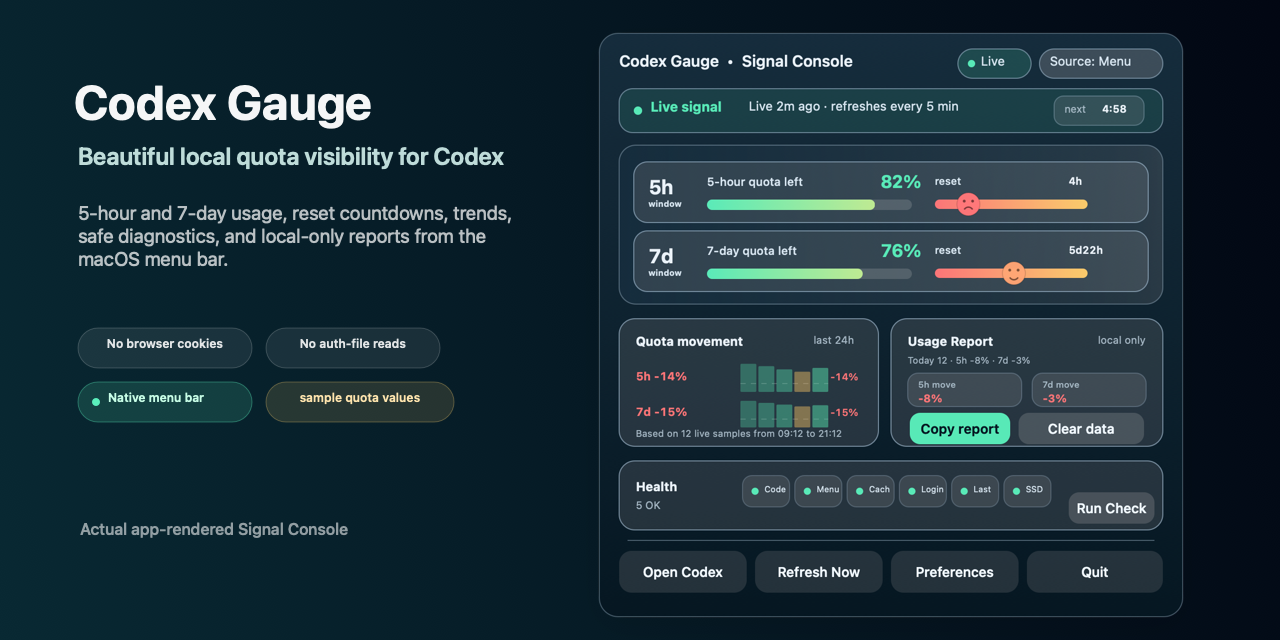
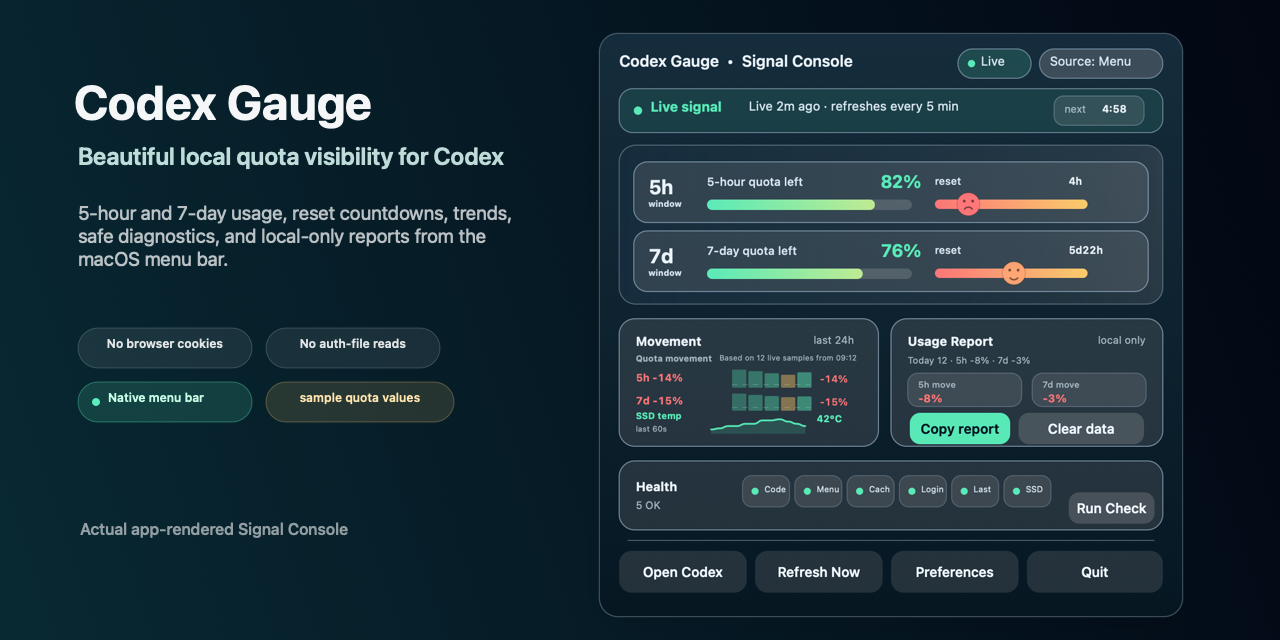
feat: show SSD temperature movement

Changed region(s): [[0.5, 0.5312, 0.6875, 0.6875]]

diff --git a/native/CodexGauge.swift b/native/CodexGauge.swift
@@ -42,6 +42,11 @@ private struct TemperatureSample: Codable {
     let ok: Bool
 }
 
+private func temperatureHistorySummaryText(_ samples: [TemperatureSample]) -> String {
+    let valid = samples.filter { $0.ok && $0.temperatureC != nil }
+    return valid.count >= 2 ? "last 60s" : "SSD temp unavailable"
+}
+
 private struct DoctorCheck {
     let title: String
     let state: String
@@ -454,6 +459,9 @@ private struct SignalConsoleModel {
     let fiveHourTrendText: String
     let sevenDayTrendText: String
     let trendContextText: String
+    let temperatureHistory: [TemperatureSample]
+    let currentTemperatureText: String
+    let temperatureHistoryText: String
     let reportFiveHourMovement: String
     let reportSevenDayMovement: String
     let reportTodaySummary: String
@@ -684,21 +692,25 @@ private final class SignalConsolePanelView: NSView {
         let layout = SignalConsoleLayout(bounds: bounds)
         let card = layout.trendCardRect
         drawRoundedRect(card, radius: 15, fill: panelSoftBackground, stroke: panelBorder.withAlphaComponent(0.50))
-        drawText("Quota movement", x: card.minX + 16, y: card.minY + 14, width: 126, height: 18, size: 12, weight: .bold, color: textPrimary)
+        drawText("Movement", x: card.minX + 16, y: card.minY + 14, width: 86, height: 18, size: 12, weight: .bold, color: textPrimary)
         drawText("last 24h", x: card.maxX - 62, y: card.minY + 14, width: 46, height: 18, size: 10, weight: .regular, color: textMuted)
-        drawTrendRow(label: "5h", text: model.fiveHourTrendText, values: model.fiveHourHistory, y: 324)
-        drawTrendRow(label: "7d", text: model.sevenDayTrendText, values: model.sevenDayHistory, y: 358)
+        drawText("Quota movement", x: card.minX + 16, y: card.minY + 33, width: 78, height: 12, size: 8.2, weight: .bold, color: textMuted)
         drawTrendContext()
+        drawTrendRow(label: "5h", text: model.fiveHourTrendText, values: model.fiveHourHistory, y: 326)
+        drawTrendRow(label: "7d", text: model.sevenDayTrendText, values: model.sevenDayHistory, y: 348)
+        drawTemperatureMovementRow(in: card)
     }
 
     private func drawTrendContext() {
-        drawText(model.trendContextText, x: 36, y: 378, width: 212, height: 14, size: 9, weight: .regular, color: textMuted)
+        let layout = SignalConsoleLayout(bounds: bounds)
+        let card = layout.trendCardRect
+        drawText(model.trendContextText, x: card.minX + 96, y: card.minY + 33, width: card.width - 112, height: 12, size: 7.2, weight: .regular, color: textMuted)
     }
 
     private func drawTrendRow(label: String, text: String, values: [Int], y: CGFloat) {
         let signalText = "\(label) \(trendSignalText(values: values, fallback: text))"
-        drawText(signalText, x: 36, y: y - 2, width: 96, height: 18, size: 11, weight: .bold, color: trendSignalColor(values: values), mono: true)
-        drawTrendSparkline(values: values, rect: NSRect(x: 136, y: y - 8, width: 84, height: 28))
+        drawText(signalText, x: 36, y: y - 2, width: 86, height: 16, size: 10, weight: .bold, color: trendSignalColor(values: values), mono: true)
+        drawTrendSparkline(values: values, rect: NSRect(x: 128, y: y - 4, width: 76, height: 18))
         drawTrendDeltaText(values: values, y: y)
     }
 
@@ -706,7 +718,7 @@ private final class SignalConsolePanelView: NSView {
         let text = trendDeltaText(values)
         drawText(
             text,
-            x: 222,
+            x: 212,
             y: y,
             width: 42,
             height: 16,
@@ -715,6 +727,107 @@ private final class SignalConsolePanelView: NSView {
             color: trendDeltaTextColor(values: values),
             mono: true
         )
+    }
+
+    private func drawTemperatureMovementRow(in card: NSRect) {
+        let row = NSRect(x: card.minX + 16, y: card.maxY - 35, width: card.width - 32, height: 25)
+        let curveRect = NSRect(x: row.minX + 72, y: row.minY + 4, width: 90, height: 19)
+        let color = temperatureCurveColor(samples: model.temperatureHistory)
+        drawText("SSD temp", x: row.minX, y: row.minY + 1, width: 58, height: 12, size: 8.6, weight: .bold, color: color)
+        drawText(model.temperatureHistoryText, x: row.minX, y: row.minY + 14, width: 70, height: 10, size: 7.5, weight: .regular, color: textMuted)
+        drawText(model.currentTemperatureText, x: row.maxX - 43, y: row.minY + 3, width: 43, height: 14, size: 9.2, weight: .bold, color: color, mono: true)
+        if model.temperatureHistoryText == "SSD temp unavailable" {
+            drawTemperatureUnavailableCurve(rect: curveRect)
+        } else {
+            drawTemperatureCurve(samples: model.temperatureHistory, rect: curveRect)
+        }
+    }
+
+    private func drawTemperatureCurve(samples: [TemperatureSample], rect: NSRect) {
+        let points = smoothedTemperaturePoints(samples: samples, rect: rect)
+        guard points.count >= 2 else {
+            drawTemperatureUnavailableCurve(rect: rect)
+            return
+        }
+        let color = temperatureCurveColor(samples: samples)
+        let line = NSBezierPath()
+        line.move(to: points[0])
+        for index in 1..<points.count {
+            let previous = points[index - 1]
+            let point = points[index]
+            let controlX = (previous.x + point.x) / 2
+            line.curve(
+                to: point,
+                controlPoint1: NSPoint(x: controlX, y: previous.y),
+                controlPoint2: NSPoint(x: controlX, y: point.y)
+            )
+        }
+        let fill = line.copy() as! NSBezierPath
+        fill.line(to: NSPoint(x: points.last?.x ?? rect.maxX, y: rect.maxY))
+        fill.line(to: NSPoint(x: points.first?.x ?? rect.minX, y: rect.maxY))
+        fill.close()
+        color.withAlphaComponent(0.12).setFill()
+        fill.fill()
+        line.lineWidth = 1.7
+        line.lineJoinStyle = .round
+        line.lineCapStyle = .round
+        color.withAlphaComponent(0.92).setStroke()
+        line.stroke()
+    }
+
+    private func drawTemperatureUnavailableCurve(rect: NSRect) {
+        let baseline = NSBezierPath()
+        baseline.move(to: NSPoint(x: rect.minX, y: rect.midY))
+        baseline.curve(
+            to: NSPoint(x: rect.maxX, y: rect.midY),
+            controlPoint1: NSPoint(x: rect.minX + rect.width * 0.33, y: rect.midY - 2),
+            controlPoint2: NSPoint(x: rect.minX + rect.width * 0.66, y: rect.midY + 2)
+        )
+        baseline.lineWidth = 1.2
+        baseline.lineCapStyle = .round
+        baseline.setLineDash([3, 4], count: 2, phase: 0)
+        textMuted.withAlphaComponent(0.48).setStroke()
+        baseline.stroke()
+    }
+
+    private func smoothedTemperaturePoints(samples: [TemperatureSample], rect: NSRect) -> [NSPoint] {
+        let values = samples.compactMap { sample -> Int? in
+            guard sample.ok, let temperature = sample.temperatureC else {
+                return nil
+            }
+            return temperature
+        }
+        guard values.count >= 2 else {
+            return []
+        }
+        let shown = Array(values.suffix(60))
+        let minimum = CGFloat(shown.min() ?? 0)
+        let maximum = CGFloat(shown.max() ?? 1)
+        let range = max(4, maximum - minimum)
+        return shown.enumerated().map { index, value in
+            let previous = shown[max(0, index - 1)]
+            let next = shown[min(shown.count - 1, index + 1)]
+            let smoothed = CGFloat(previous + value + next) / 3
+            let x = rect.minX + rect.width * CGFloat(index) / CGFloat(max(1, shown.count - 1))
+            let normalized = (smoothed - minimum) / range
+            let y = rect.maxY - 3 - (rect.height - 6) * max(0, min(1, normalized))
+            return NSPoint(x: x, y: y)
+        }
+    }
+
+    private func temperatureCurveColor(samples: [TemperatureSample]) -> NSColor {
+        guard let latest = samples.reversed().first(where: { $0.ok && $0.temperatureC != nil }),
+              let temperature = latest.temperatureC else {
+            return textMuted
+        }
+        switch temperature {
+        case 70...:
+            return coralAccent
+        case 55..<70:
+            return amberAccent
+        default:
+            return mintAccent
+        }
     }
 
     private func drawReportSection() {
@@ -1418,7 +1531,8 @@ private func signalConsolePreviewModel(
     todaySummary: String,
     health: String
 ) -> SignalConsoleModel {
-    SignalConsoleModel(
+    let temperatureHistory = previewTemperatureSamples(unavailable: unavailable)
+    return SignalConsoleModel(
         planName: unavailable ? "Codex Gauge" : "Codex Pro",
         sourcePill: "Source: Menu Bar",
         stateTitle: title,
@@ -1436,6 +1550,9 @@ private func signalConsolePreviewModel(
         fiveHourTrendText: unavailable ? "collecting" : reportFive,
         sevenDayTrendText: unavailable ? "collecting" : reportSeven,
         trendContextText: unavailable ? "Open Codex to start collecting live samples" : "Based on 12 live samples from 09:12 to 21:12",
+        temperatureHistory: temperatureHistory,
+        currentTemperatureText: unavailable ? "--" : "42°C",
+        temperatureHistoryText: temperatureHistorySummaryText(temperatureHistory),
         reportFiveHourMovement: reportFive,
         reportSevenDayMovement: reportSeven,
         reportTodaySummary: todaySummary,
@@ -1455,6 +1572,18 @@ private func signalConsolePreviewModel(
         isUnavailable: unavailable,
         isRefreshing: false
     )
+}
+
+private func previewTemperatureSamples(unavailable: Bool = false) -> [TemperatureSample] {
+    if unavailable {
+        return [
+            TemperatureSample(time: "2026-06-16T21:12:00Z", temperatureC: nil, ok: false),
+        ]
+    }
+    let values = [41, 42, 42, 43, 42, 44, 43, 45, 44, 44, 43, 42]
+    return values.enumerated().map { index, value in
+        TemperatureSample(time: String(format: "2026-06-16T21:11:%02dZ", index * 5), temperatureC: value, ok: true)
+    }
 }
 
 private final class CodexGaugeApp: NSObject, NSApplicationDelegate {
@@ -1716,6 +1845,9 @@ private final class CodexGaugeApp: NSObject, NSApplicationDelegate {
                 fiveHourTrendText: trendText(values: fiveHourHistory, suffix: "this window"),
                 sevenDayTrendText: trendText(values: sevenDayHistory, suffix: "in 24h"),
                 trendContextText: trendContextText(samples: lastDaySamples, latestSource: status.source),
+                temperatureHistory: retainedTemperatureSamples(temperatureSamples),
+                currentTemperatureText: currentTemperatureText(status: ssdTemperature, samples: retainedTemperatureSamples(temperatureSamples)),
+                temperatureHistoryText: temperatureHistorySummaryText(retainedTemperatureSamples(temperatureSamples)),
                 reportFiveHourMovement: inlineReport.fiveHourMovement,
                 reportSevenDayMovement: inlineReport.sevenDayMovement,
                 reportTodaySummary: inlineReport.todaySummary,
@@ -1756,6 +1888,9 @@ private final class CodexGaugeApp: NSObject, NSApplicationDelegate {
             fiveHourTrendText: trendText(values: fiveHourHistory, suffix: "this window"),
             sevenDayTrendText: trendText(values: sevenDayHistory, suffix: "in 24h"),
             trendContextText: trendContextText(samples: lastDaySamples, latestSource: nil),
+            temperatureHistory: retainedTemperatureSamples(temperatureSamples),
+            currentTemperatureText: currentTemperatureText(status: ssdTemperature, samples: retainedTemperatureSamples(temperatureSamples)),
+            temperatureHistoryText: temperatureHistorySummaryText(retainedTemperatureSamples(temperatureSamples)),
             reportFiveHourMovement: inlineReport.fiveHourMovement,
             reportSevenDayMovement: inlineReport.sevenDayMovement,
             reportTodaySummary: inlineReport.todaySummary,
@@ -1812,6 +1947,17 @@ private final class CodexGaugeApp: NSObject, NSApplicationDelegate {
         let liveCount = usable.filter { $0.source == "live" }.count
         let sampleKind = liveCount == usable.count ? "live samples" : "samples"
         return "\(prefix) \(usable.count) \(sampleKind) from \(shortTime(first.time)) to \(shortTime(latest.time))"
+    }
+
+    private func currentTemperatureText(status: SSDTemperatureStatus?, samples: [TemperatureSample]) -> String {
+        if let status, status.ok, let temperature = status.temperatureC {
+            return "\(temperature)°C"
+        }
+        if let latest = samples.reversed().first(where: { $0.ok && $0.temperatureC != nil }),
+           let temperature = latest.temperatureC {
+            return "\(temperature)°C"
+        }
+        return "--"
     }
 
     private func healthSummaryText(_ checks: [DoctorCheck]) -> String {

diff --git a/tests/test_signal_console_ux.py b/tests/test_signal_console_ux.py
@@ -564,6 +564,24 @@ class SignalConsoleUXTests(unittest.TestCase):
         self.assertNotIn("readSSDTemperature()", setup_doctor_body)
         self.assertNotIn("readSSDTemperature()", diagnostics_body)
 
+    def test_signal_console_movement_shows_smooth_temperature_curve(self):
+        source = pathlib.Path("native/CodexGauge.swift").read_text()
+
+        for token in [
+            "temperatureHistory: [TemperatureSample]",
+            "currentTemperatureText: String",
+            "temperatureHistoryText: String",
+            "temperatureHistory: retainedTemperatureSamples(temperatureSamples)",
+            '"SSD temp"',
+            '"last 60s"',
+            '"SSD temp unavailable"',
+            "drawTemperatureCurve",
+            "smoothedTemperaturePoints",
+            "temperatureCurveColor",
+            "drawTemperatureUnavailableCurve",
+        ]:
+            self.assertIn(token, source)
+
     def test_signal_console_docs_are_public_safe(self):
         spec = pathlib.Path("docs/design/codex-gauge-signal-console-v0.6-design.md").read_text()
         image = pathlib.Path("docs/design/codex-gauge-signal-console-v0.6.png")
